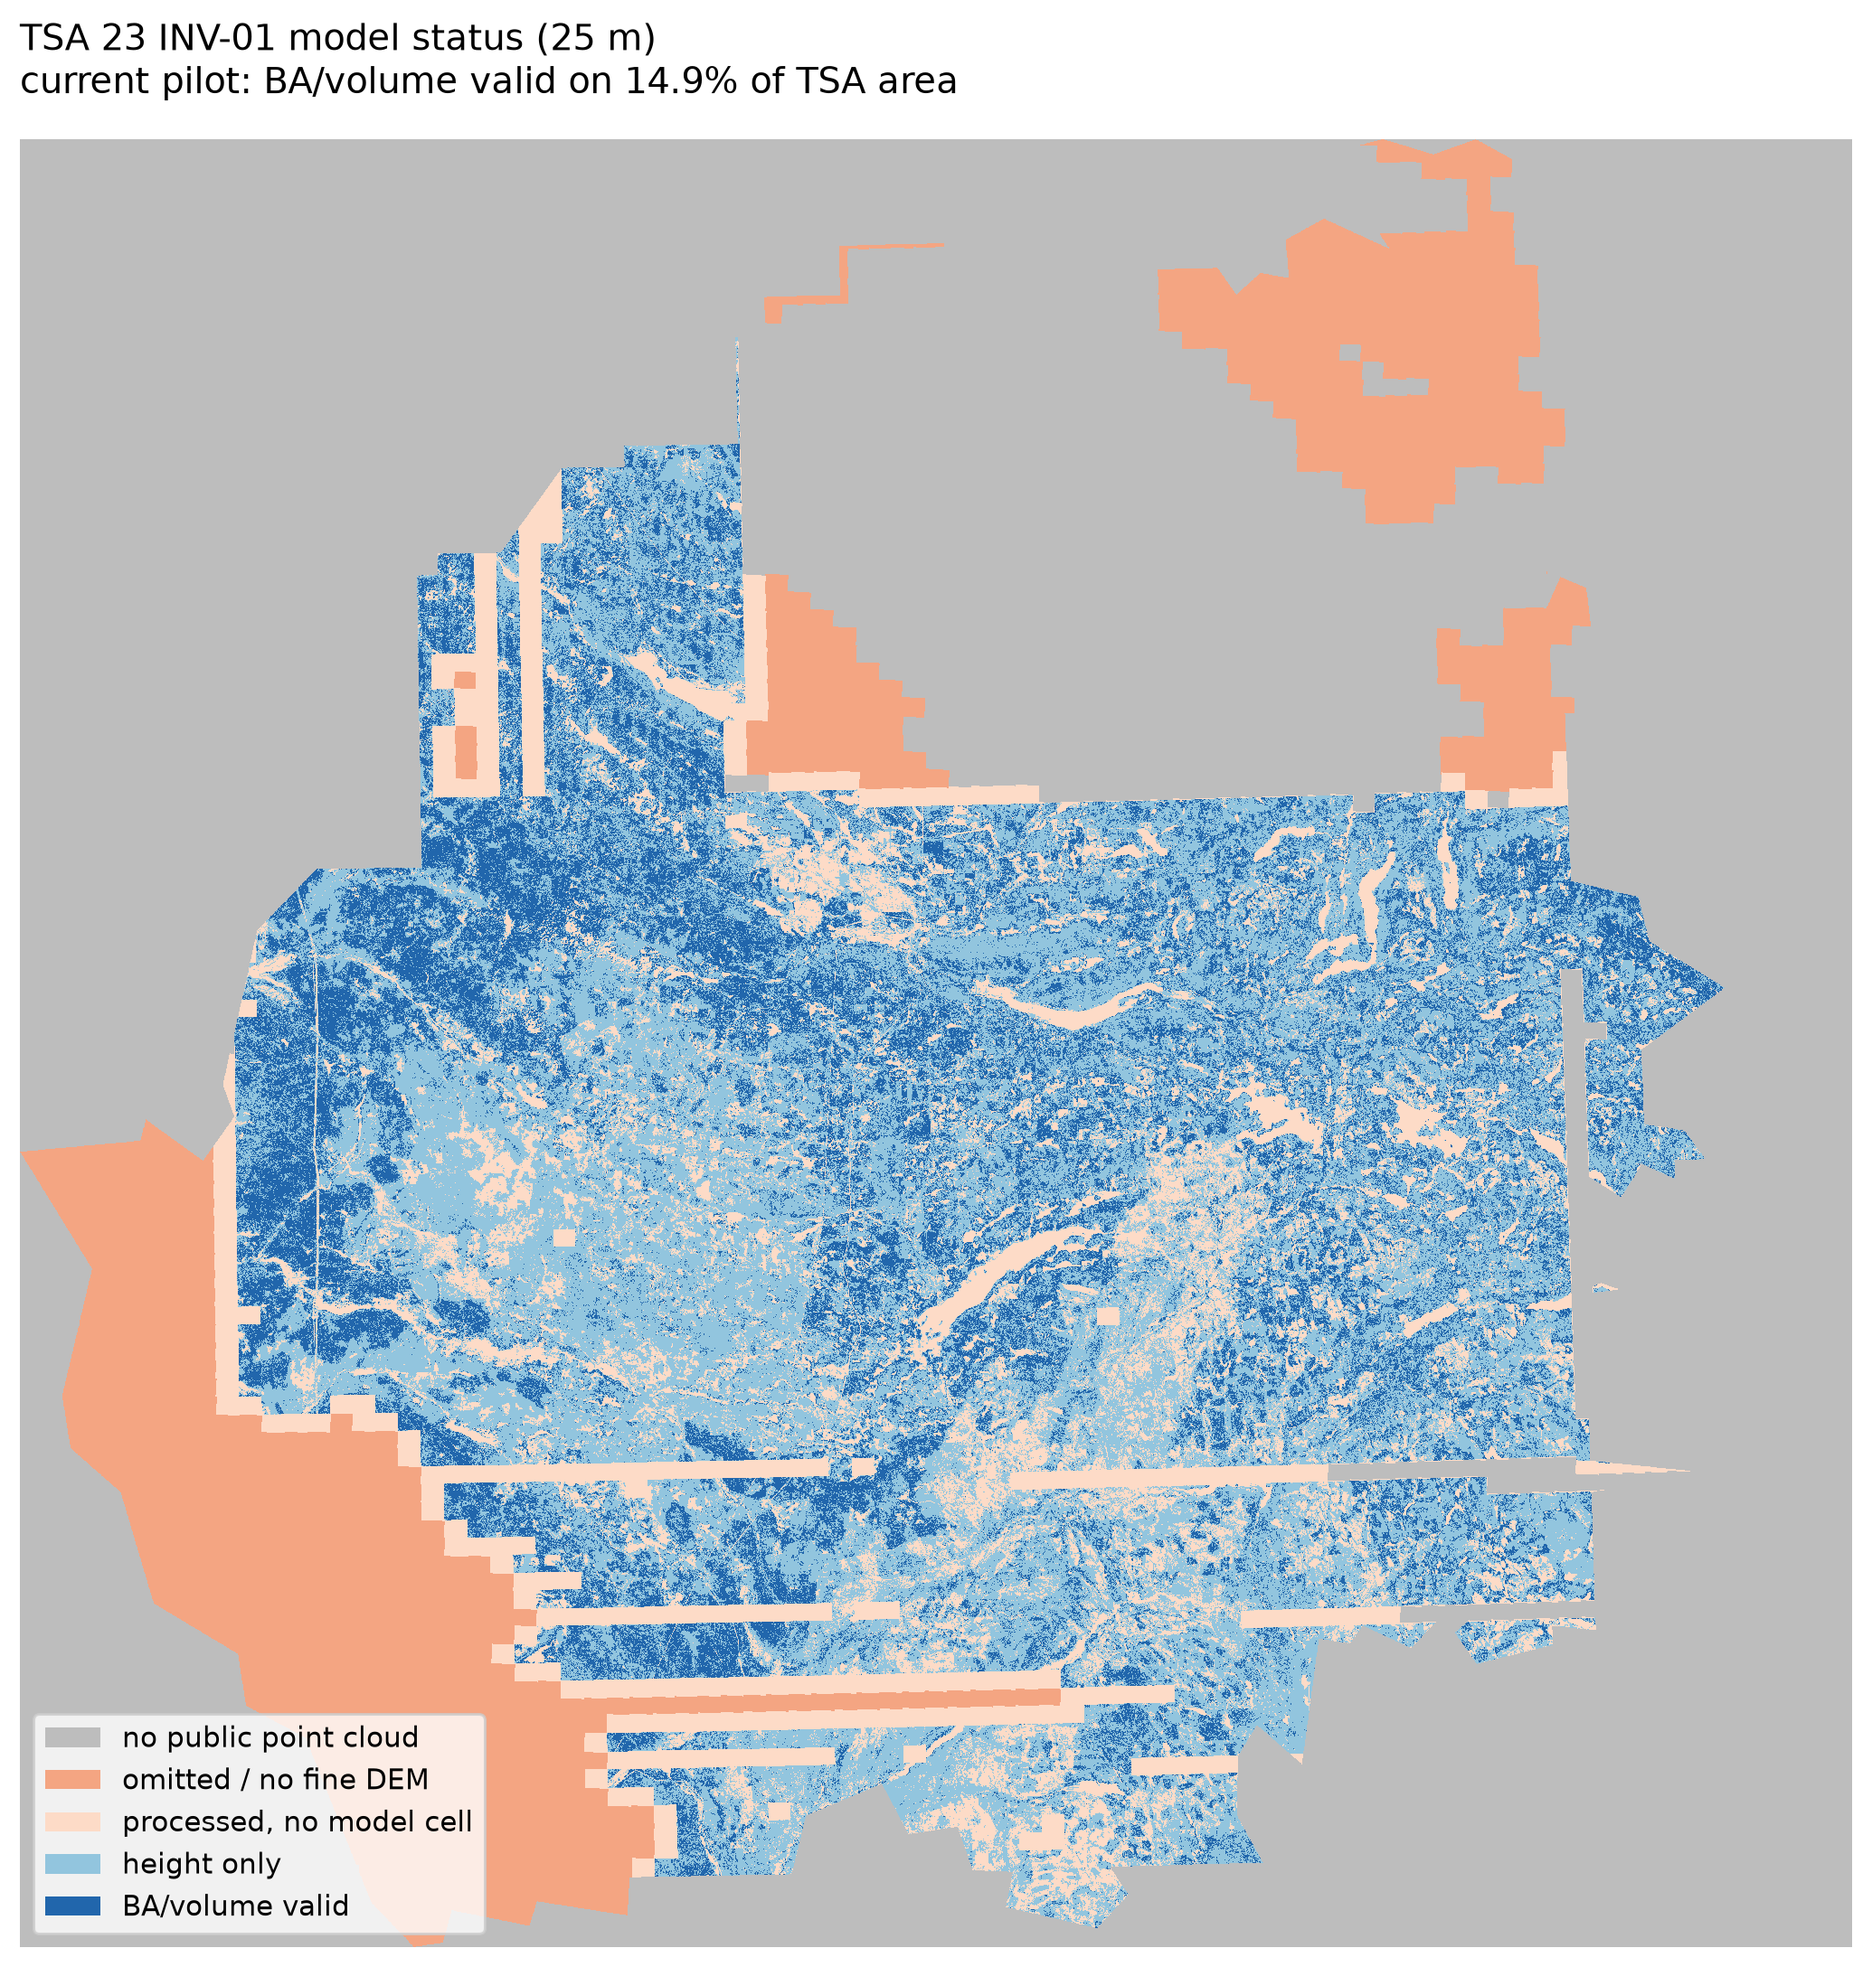
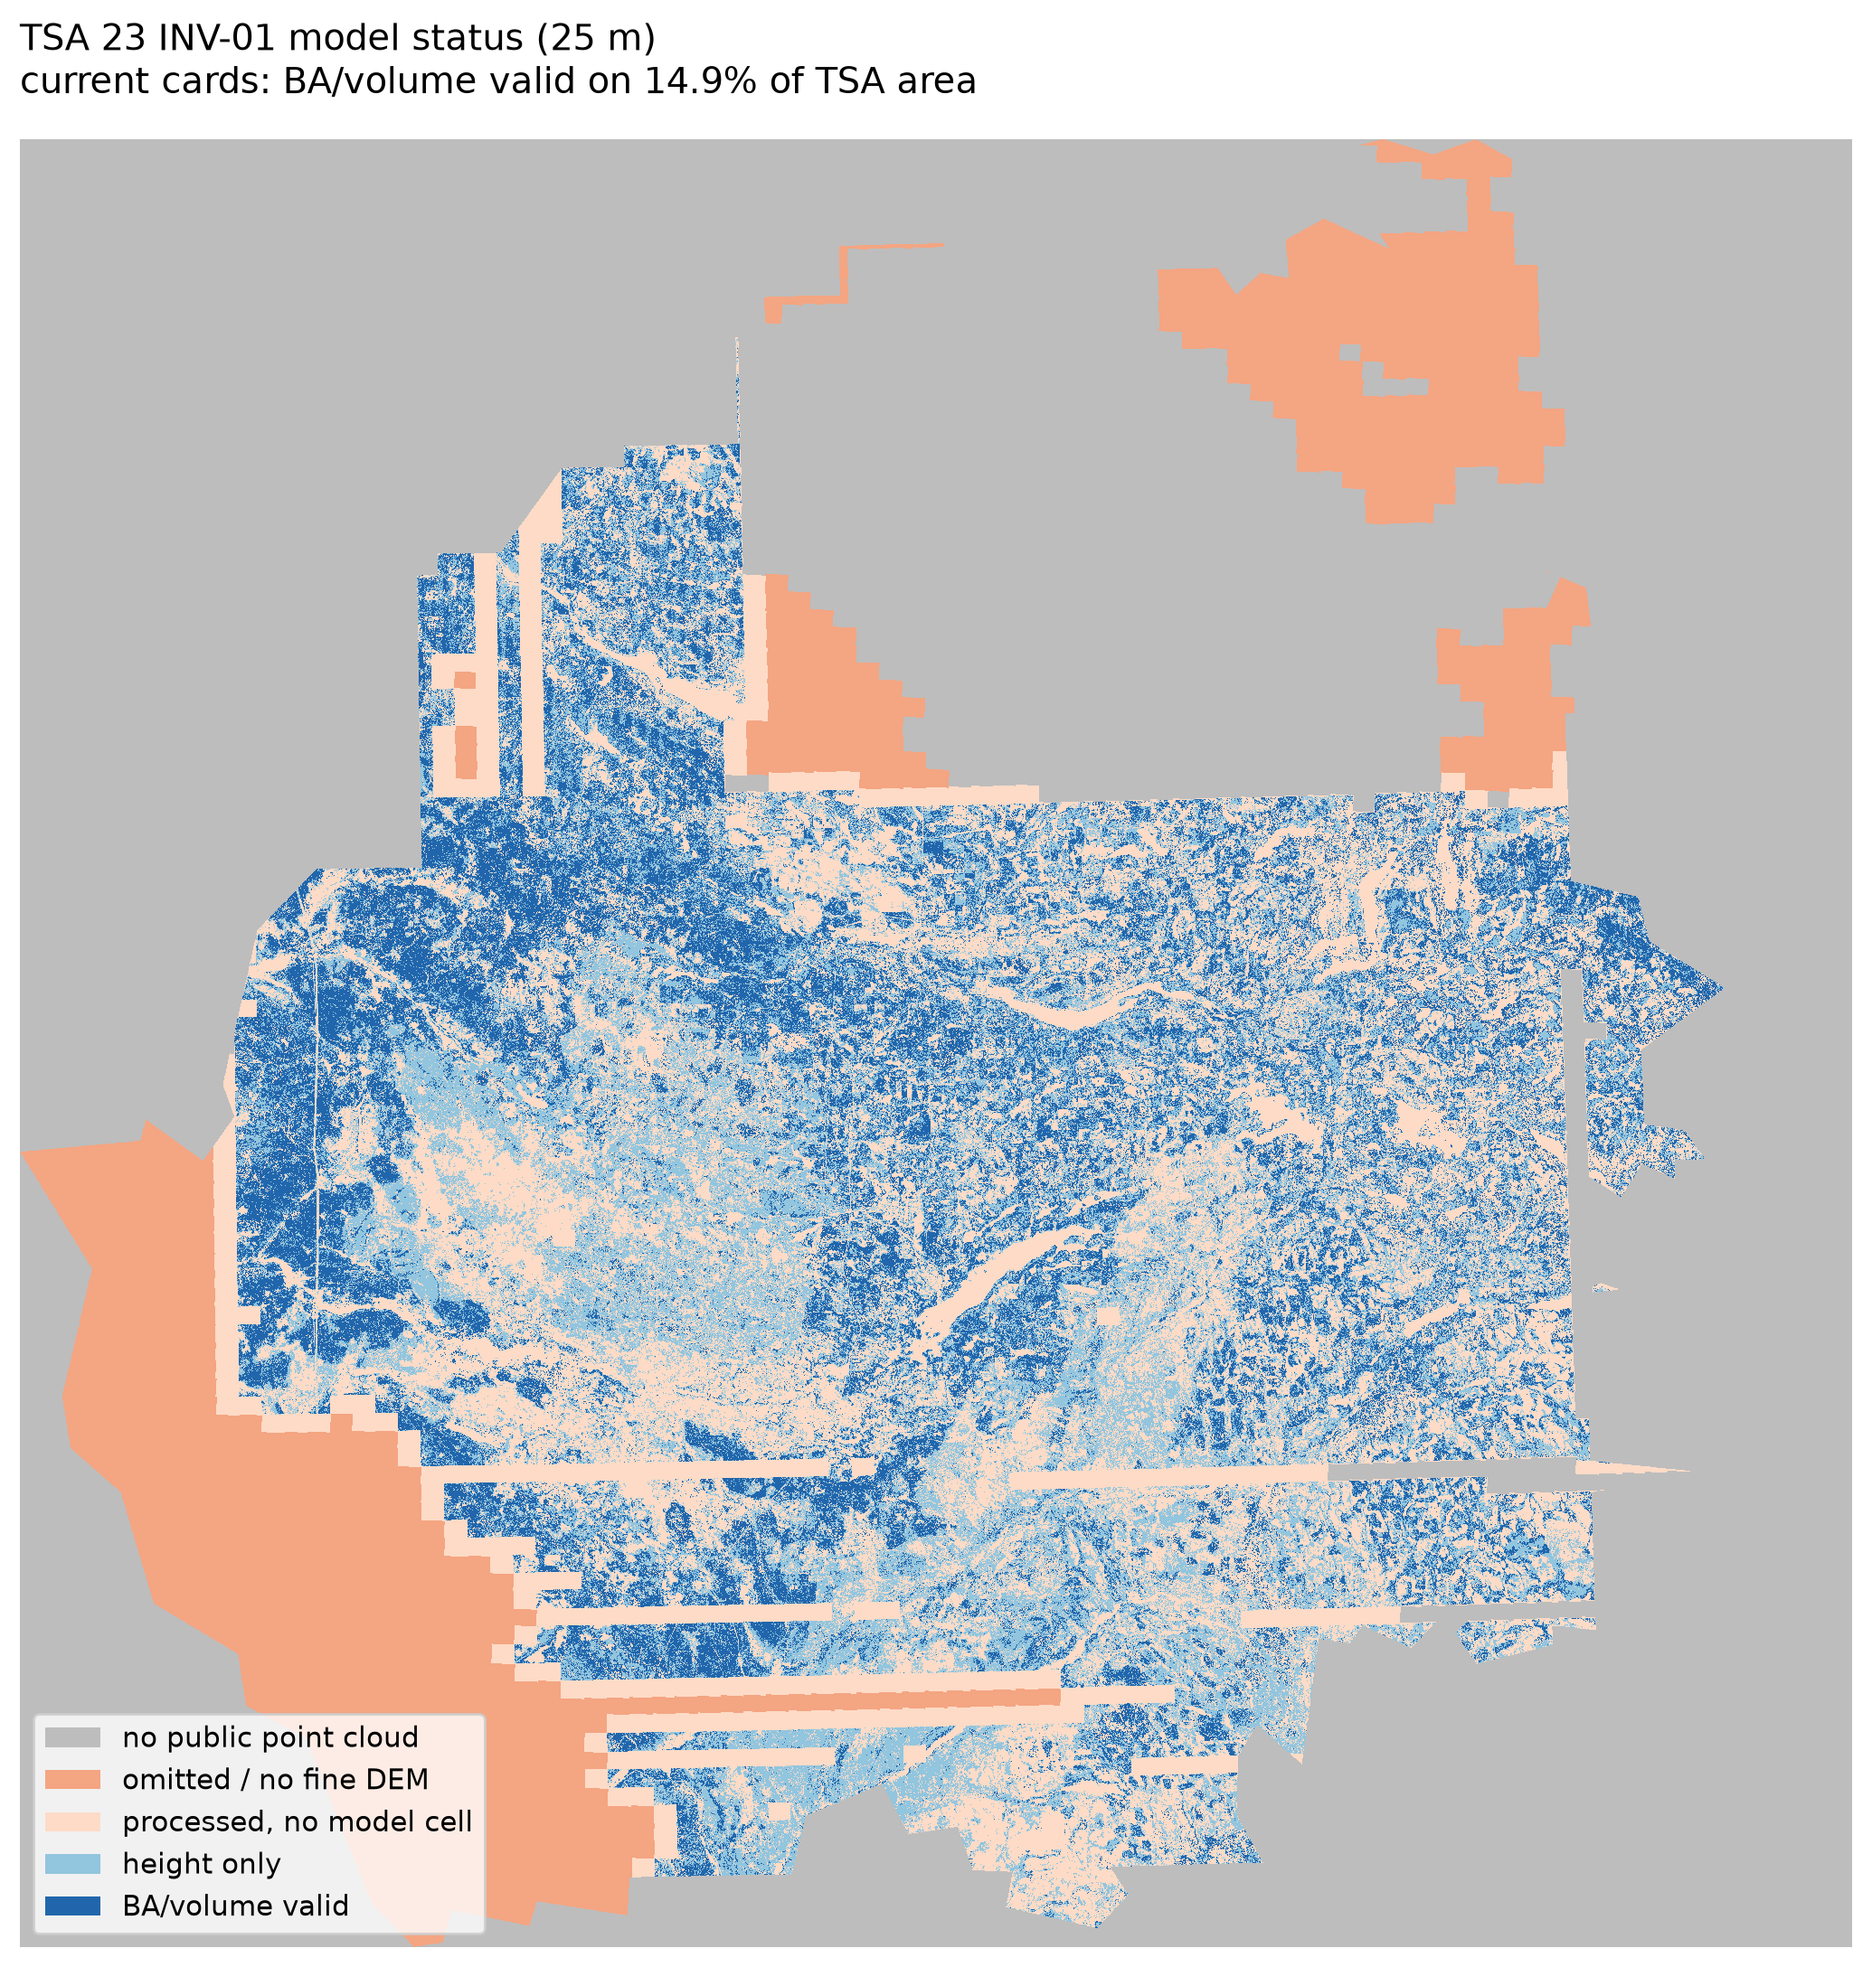
Apply regional candidates to full-grid evidence (#26)

Changed region(s): [[0.1237, 0.2188, 0.8966, 0.9688], [0.0928, 0.0312, 0.5256, 0.0625], [0.8039, 0.8125, 0.8348, 0.8438]]

diff --git a/notes/reports/inv01-tsa23-model-status.md b/notes/reports/inv01-tsa23-model-status.md
@@ -2,32 +2,47 @@
 
 ## Purpose
 
-The current 25 m surface is a pilot, not a wall-to-wall inventory.  This status
-mask makes its applicability explicit so the map is not used outside the
-domain the cards actually cover.
+The current 25 m surface is a pilot, not a wall-to-wall inventory.  The status
+mask separates coverage gaps from model-domain gaps.
 
-## Classes
+## Current cards
 
 | Code | Class | Area km2 | Share of TSA |
 | ---: | --- | ---: | ---: |
 | 0 | No public point cloud | 2,465.7 | 20.0% |
 | 1 | Omitted / no fine 1 m DEM | 1,936.7 | 15.7% |
-| 2 | Processed, but no model cell | 1,993.5 | 16.1% |
-| 3 | Height only | 4,113.0 | 33.3% |
+| 2 | Processed, but no model cell | 3,643.0 | 29.5% |
+| 3 | Height only | 2,463.5 | 20.0% |
 | 4 | BA/volume valid | 1,839.2 | 14.9% |
 
-The rasterized TSA area is 12,348.0 km2; the vector TSA area used elsewhere is
-12,353.2 km2.  The difference is the 25 m edge approximation.
+The rasterized TSA area is 12,348.0 km2; the vector TSA area is 12,353.2 km2.
+The difference is the 25 m edge approximation.
 
-Only **14.9%** of TSA 23 has BA/volume predictions.  Height is available on
-48.2% (classes 3+4).  The remaining 51.8% has no height/BA/volume surface:
-20.0% has no public point cloud, 15.7% is in omitted/no-DEM tiles, and 16.1% is
-processed but has no usable 25 m feature cell.
+Height predictions cover **33.3%** of the TSA (6,573,196 cells); BA/volume cover
+**14.9%**.  The other 51.8% has no height/BA/volume surface: 20.0% no public
+point cloud, 15.7% omitted/no-DEM, and 29.5% processed but with no usable model
+cell (including cells outside the card ranges).
 
-## Raster
+## Regional candidate cards
 
-`tsa23_model_status_25m.tif` is a three-band UInt8 raster in EPSG:3157, at the
-same 25 m origin and extent as `tsa23_idf_full_25m.tif`:
+Applying the experimental regional BA/volume cards to the full feature grid:
+
+| Code | Class | Area km2 | Share of TSA |
+| ---: | --- | ---: | ---: |
+| 0 | No public point cloud | 2,465.7 | 20.0% |
+| 1 | Omitted / no fine 1 m DEM | 1,936.7 | 15.7% |
+| 2 | Processed, but no model cell | 3,207.1 | 26.0% |
+| 3 | Height only | 1,825.5 | 14.8% |
+| 4 | BA/volume valid | 2,913.0 | 23.6% |
+
+The regional candidates increase BA/volume coverage from 14.9% to **23.6%** of
+TSA 23, while height coverage is unchanged.  This is still an experimental
+surface; the four-plot external check is clustered and the candidate cards are
+not published operational cards.
+
+## Rasters
+
+`tsa23_model_status_25m.tif` for the current cards:
 
 1. `model_status` — 0 no point cloud, 1 omitted/no fine DEM, 2 processed/no model
    cell, 3 height only, 4 BA/volume valid.
@@ -36,27 +51,28 @@ same 25 m origin and extent as `tsa23_idf_full_25m.tif`:
 3. `height_predictor_outside` — 1 where a feature cell is outside the published
    height predictor range.
 
-The map is a companion product, not a replacement for the inventory raster.  It
-does not add predictions; it only labels the existing surface.
+`tsa23_model_status_regional_25m.tif` is the same three bands for the regional
+candidate cards.
 
 ## Interpretation
 
-- Do not treat class 2, 3, or 4 as “valid everywhere”.
+- Do not treat classes 2-4 as “valid everywhere”.
 - Class 3 is height-only; BA/volume are unsupported.
 - Classes 0 and 1 are coverage gaps, not zero biomass.
-- High-biomass stands above `Lhmean` 14.1882 m / `Lhp95` 24.07 m are outside the
-  published card domain; they are not fixed by this mask.
-- TSA 22 (Okanagan) is not part of this product; TSA 29 is an exploratory
-  transfer experiment, not a TSA 23 calibration.
+- The regional candidates do not improve height; height keeps the current card.
+- The high-biomass regional cards are experimental and must not be published as
+  operational cards without a larger spatial holdout.
 
 ## Reproduce
 
-The mask is built by `examples/inv01_tsa23_validation/build_status_mask.py` from
-the feature table, inventory table, LidarBC selection, manifest, TSA boundary,
-and the reference 25 m raster.  Outputs are under the data drive, never `/tmp`:
+Builders:
+
+- `examples/inv01_tsa23_validation/build_status_mask.py` — current cards
+- `examples/inv01_tsa23_validation/build_status_mask_regional.py` — regional
+  candidate cards
+
+Data root, never `/tmp`:
 
 ```text
-/srv/shared-data/gep/ws4/tmp/inv01-data/inv01_tsa23/tsa23_model_status_25m.tif
+/srv/shared-data/gep/ws4/tmp/inv01-data
 ```
-
-See also `inv01-tsa23-acquisition-request.md` for the next data requirement.

diff --git a/notes/reports/inv01-tsa23-regional-inventory.md b/notes/reports/inv01-tsa23-regional-inventory.md
@@ -1,0 +1,53 @@
+# INV-01 regional candidate applied to the full grid
+
+## What was run
+
+The experimental regional BA and volume candidates were applied to the full
+9,523,476-cell TSA 23 feature grid.  Height still uses the published current
+card.
+
+## Coverage
+
+| Surface | Current cells | Candidate cells | Current TSA share | Candidate TSA share |
+| --- | ---: | ---: | ---: | ---: |
+| Height | 6,573,196 | 6,573,196 | 33.3% | 33.3% |
+| BA | 2,942,755 | 7,479,672 | 14.9% | 37.9% |
+| Volume | 2,942,755 | 4,745,557 | 14.9% | 24.0% |
+| BA and volume | 2,942,755 | 4,660,847 | 14.9% | 23.6% |
+
+The regional candidates increase the joint BA/volume surface from 1,839 km2 to
+2,913 km2, a 58% increase in covered area.  Twelve percent of the TSA is newly
+covered; the remaining gaps are still no-point-cloud and no-DEM areas.
+
+## Candidate statistics
+
+| Attribute | Cells | Mean | Median | Min | Max |
+| --- | ---: | ---: | ---: | ---: | ---: |
+| BA (m2/ha) | 7,479,672 | 23.83 | 23.25 | 13.45 | 44.30 |
+| Volume (m3/ha) | 4,745,557 | 167.81 | 153.44 | 56.66 | 511.54 |
+
+These are candidate model outputs, not observations.  The four-plot external
+check is the evidence for the candidate; it is clustered in one TSA 23 tile.
+
+## Status consequences
+
+- Current model-status: BA/volume 14.9%, height 33.3%.
+- Regional candidate status: BA/volume 23.6%, height 33.3%.
+- Processed/no-model drops from 29.5% to 26.0%; height-only drops from 20.0% to
+  14.8%.
+- No point cloud and omitted/no-DEM remain 20.0% and 15.7%.
+
+## Decision
+
+Use this as an experimental open-data bundle, not a published operational card.
+The candidate is materially better than the current volume extrapolation and
+also improves BA, but it still has a narrow spatial holdout.
+
+## Files
+
+- `notes/reports/inv01-tsa23-regional-inventory.md`
+- `notes/reports/inv01-tsa23-model-status.md`
+- `notes/reports/inv01-tsa23-regional-calibration.md`
+- `experiments/inv01-regional-calibration/candidate_cards.json`
+- data root: `inventory_regional_full.parquet`,
+  `tsa23_model_status_regional_25m.tif`

diff --git a/docs/inv01-tsa23-inventory.rst b/docs/inv01-tsa23-inventory.rst
@@ -91,13 +91,13 @@ under ``/srv/shared-data/gep/ws4/tmp/inv01-data``, never in ``/tmp``.
 Model status
 ------------
 
-The current surface is valid for BA/volume on only 14.9% of TSA 23; height is
-available on 48.2%.  A three-band 25 m status mask labels no-point-cloud,
-omitted/no-DEM, processed/no-cell, height-only, and BA/volume-valid areas.  The
-mask and the high-biomass acquisition request are in
-``notes/reports/inv01-tsa23-model-status.md`` and
-``notes/reports/inv01-tsa23-acquisition-request.md``.  The sender-ready package
-is in ``notes/reports/inv01-tsa23-acquisition-bundle/``.
+The current surface has BA/volume on 14.9% of TSA 23 and height on 33.3%.  A
+three-band 25 m status mask labels no-point-cloud, omitted/no-DEM,
+processed/no-cell, height-only, and BA/volume-valid areas.  Applying the
+experimental regional BA/volume candidates raises joint BA/volume coverage to
+**23.6%** while height stays unchanged.  The masks and full-grid application
+are documented in ``notes/reports/inv01-tsa23-model-status.md`` and
+``notes/reports/inv01-tsa23-regional-inventory.md``.
 
 .. figure:: /_static/inv01-tsa23-model-status.png
    :alt: TSA 23 model status mask
@@ -108,10 +108,11 @@ is in ``notes/reports/inv01-tsa23-acquisition-bundle/``.
 Decision
 --------
 
-Do not operationalize the current cards.  The next defensible step is to extend
-the high-biomass TSA 23 calibration and validate with a tile-level spatial
-holdout.  Coverage expansion of the 907 omitted tiles comes after the model is
-defensible.
+Use the current cards and the regional candidates as open-data pilot products,
+not operational inventory.  The regional BA/volume candidates are the active
+experimental direction; height keeps the current card.  The next model step is
+to promote or reject the candidates with a larger spatial holdout, then rerun
+the coverage analysis.  There is no acquisition gate in the package workflow.
 
 Evidence index
 --------------
